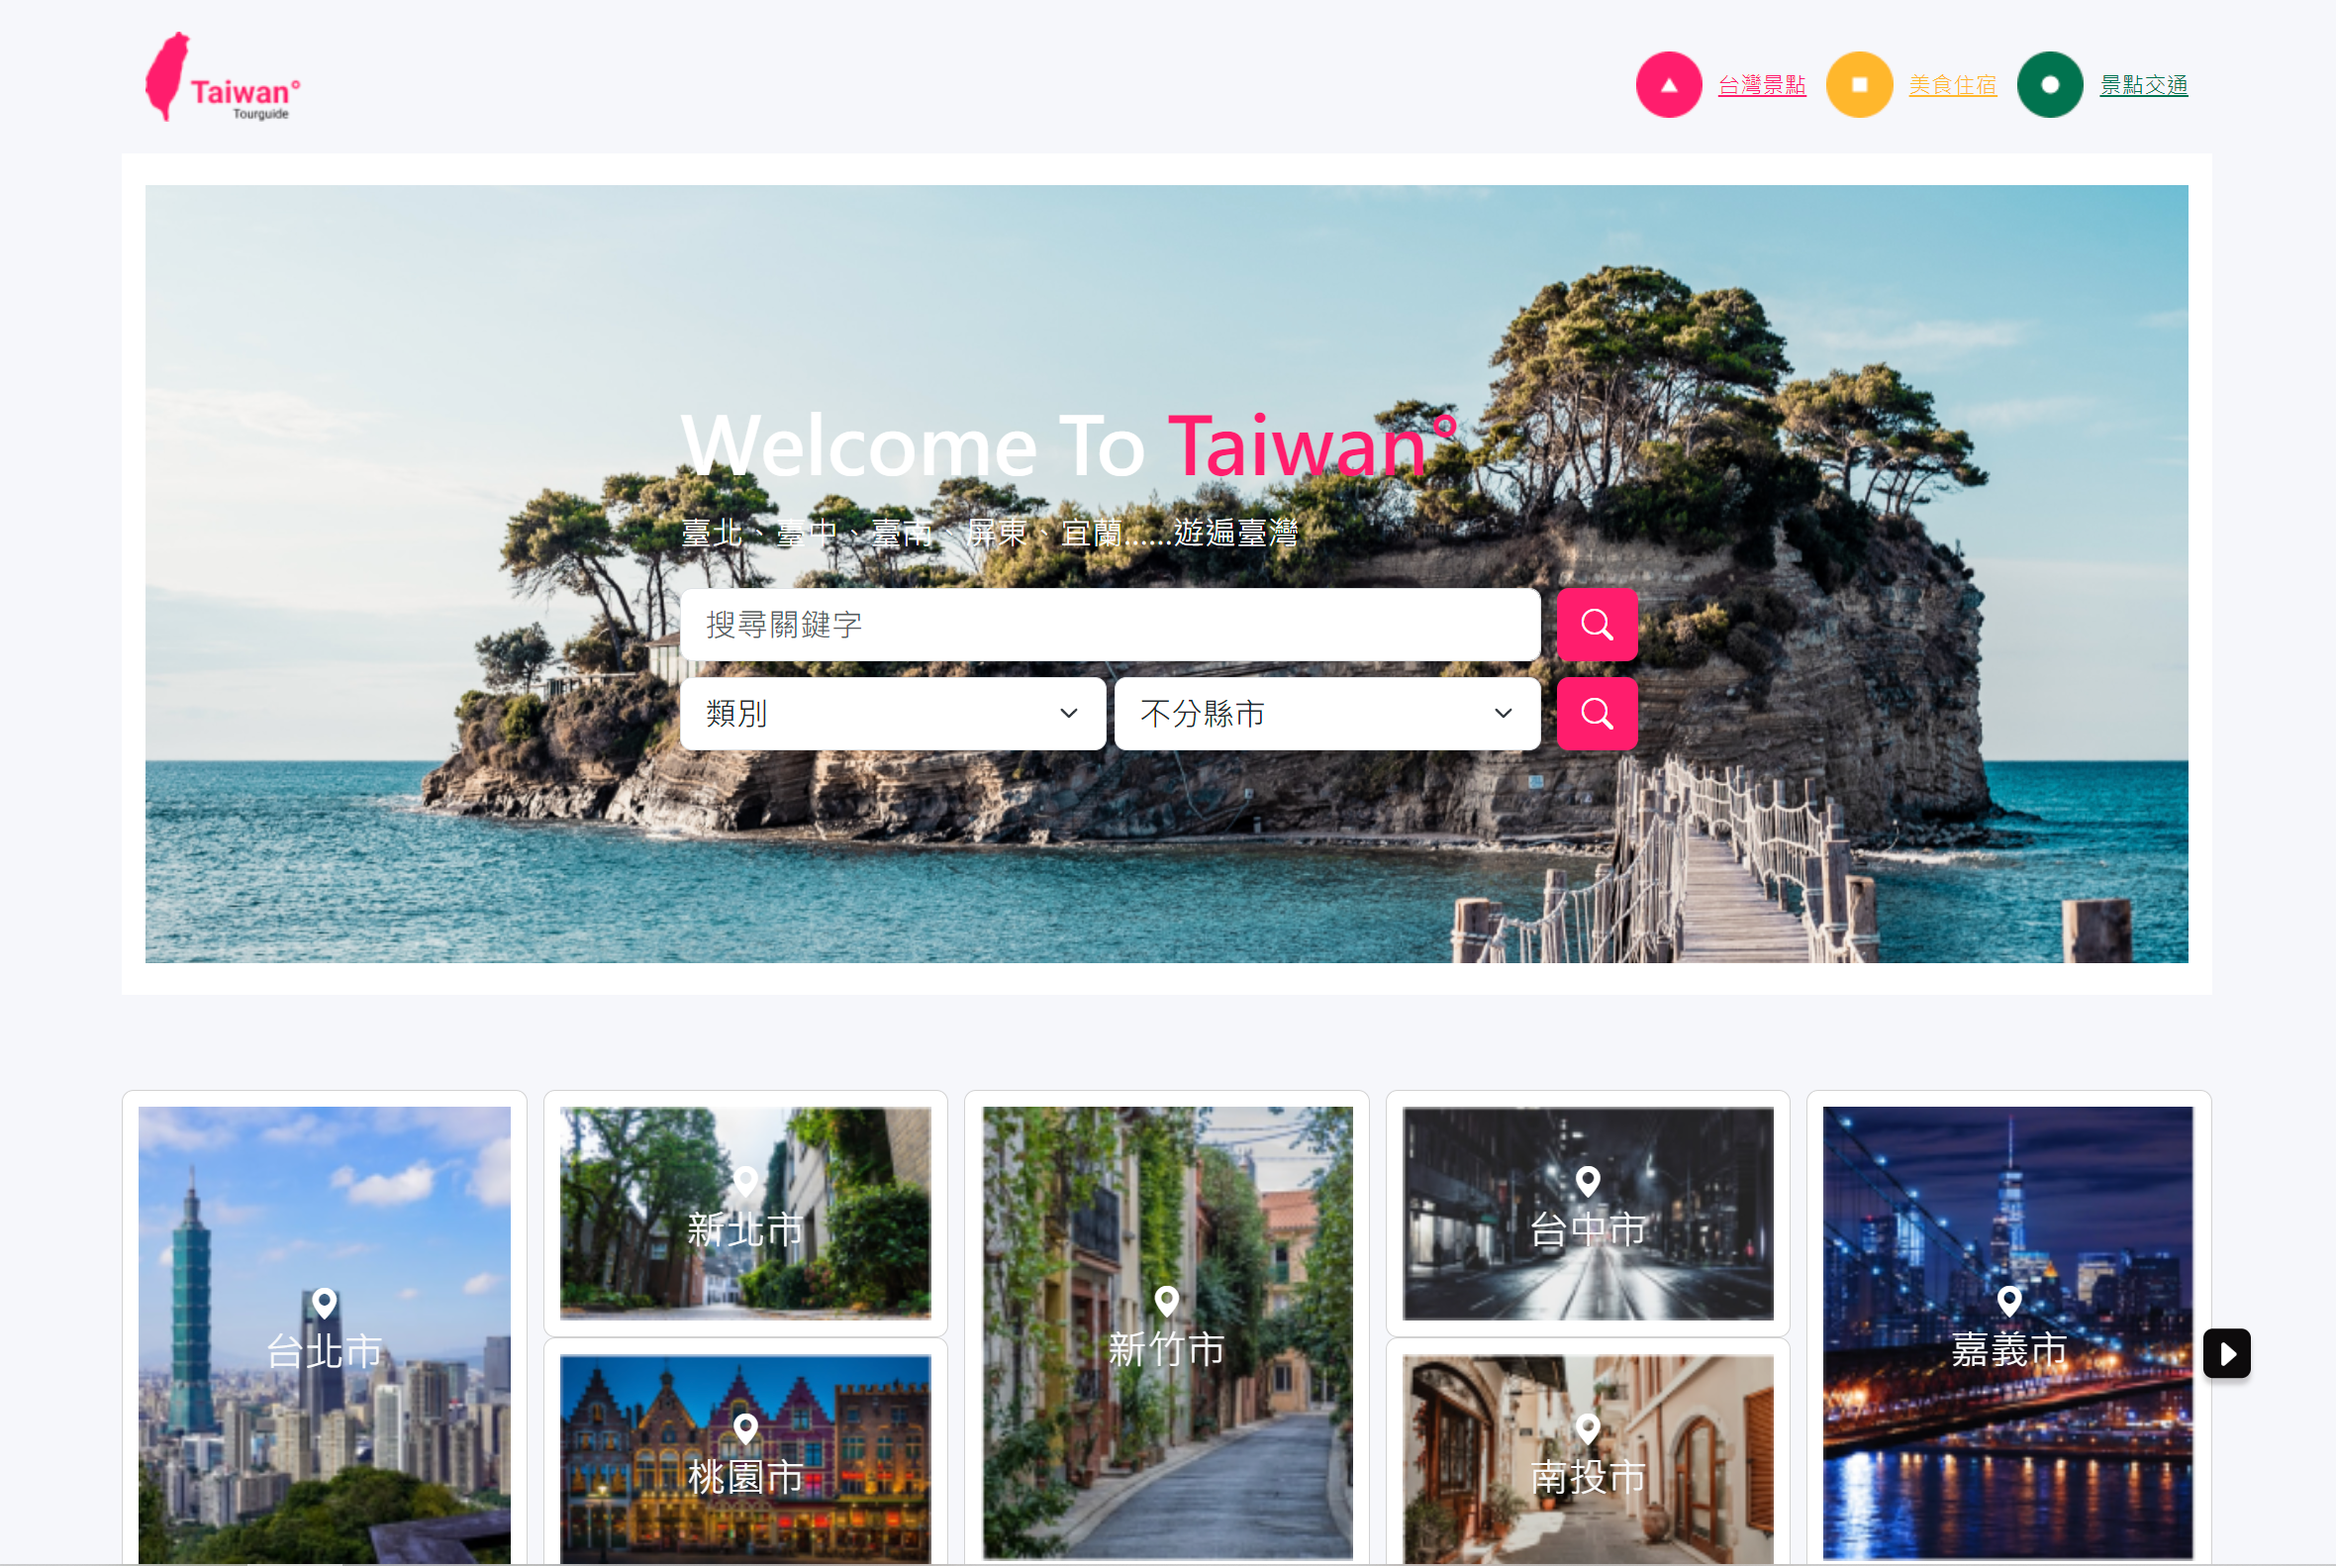
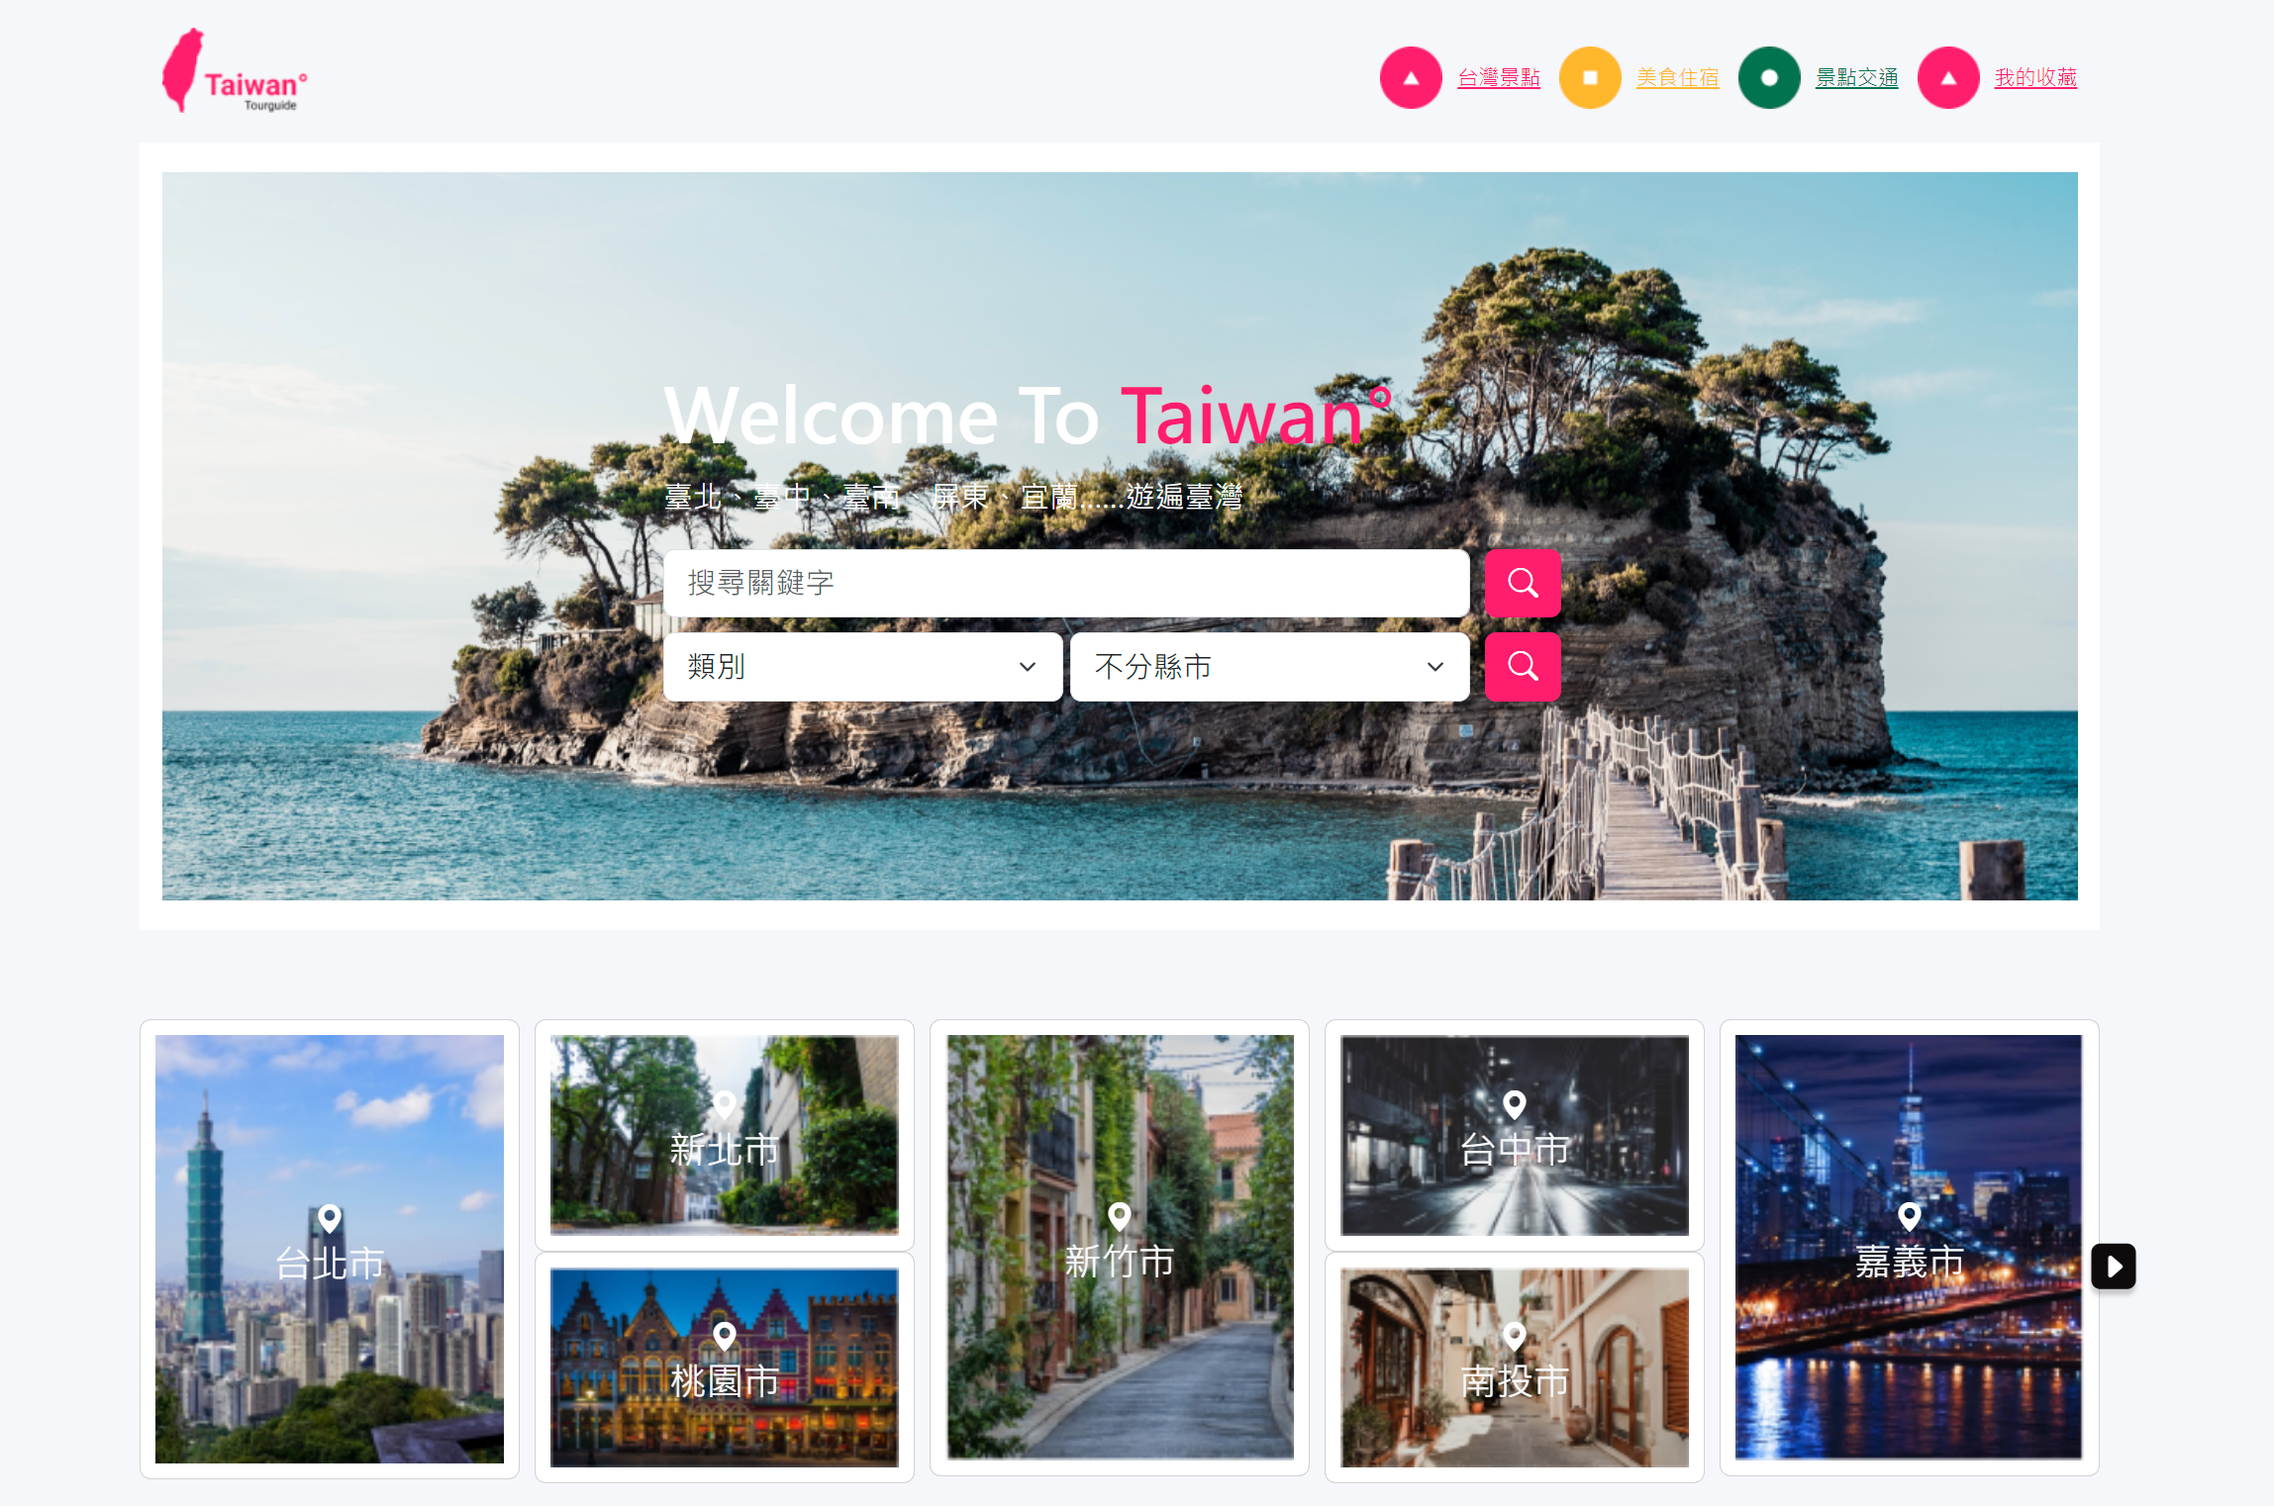
第23版 docs: 更新README.md

diff --git a/README.md b/README.md
@@ -65,5 +65,12 @@
 </ol>
 <img src="./src/assets/pics/ReadMe/BusIntro.png">
 
+<h1>我的收藏</h1>
+<ol>
+  <li>透過Pinia Persist持久化，實現Data數據保存</li>
+  <li>可於各頁面進行收藏活動、景點、美食、住宿，也可以再次點擊取消收藏</li>
+</ol>
+<img src="./src/assets/pics/ReadMe/collection.png">
+
 <h1>參考資料</h1>
 <p>交通部 <a href="https://tdx.transportdata.tw/">TDX 運輸資料流通服務</a></p>
